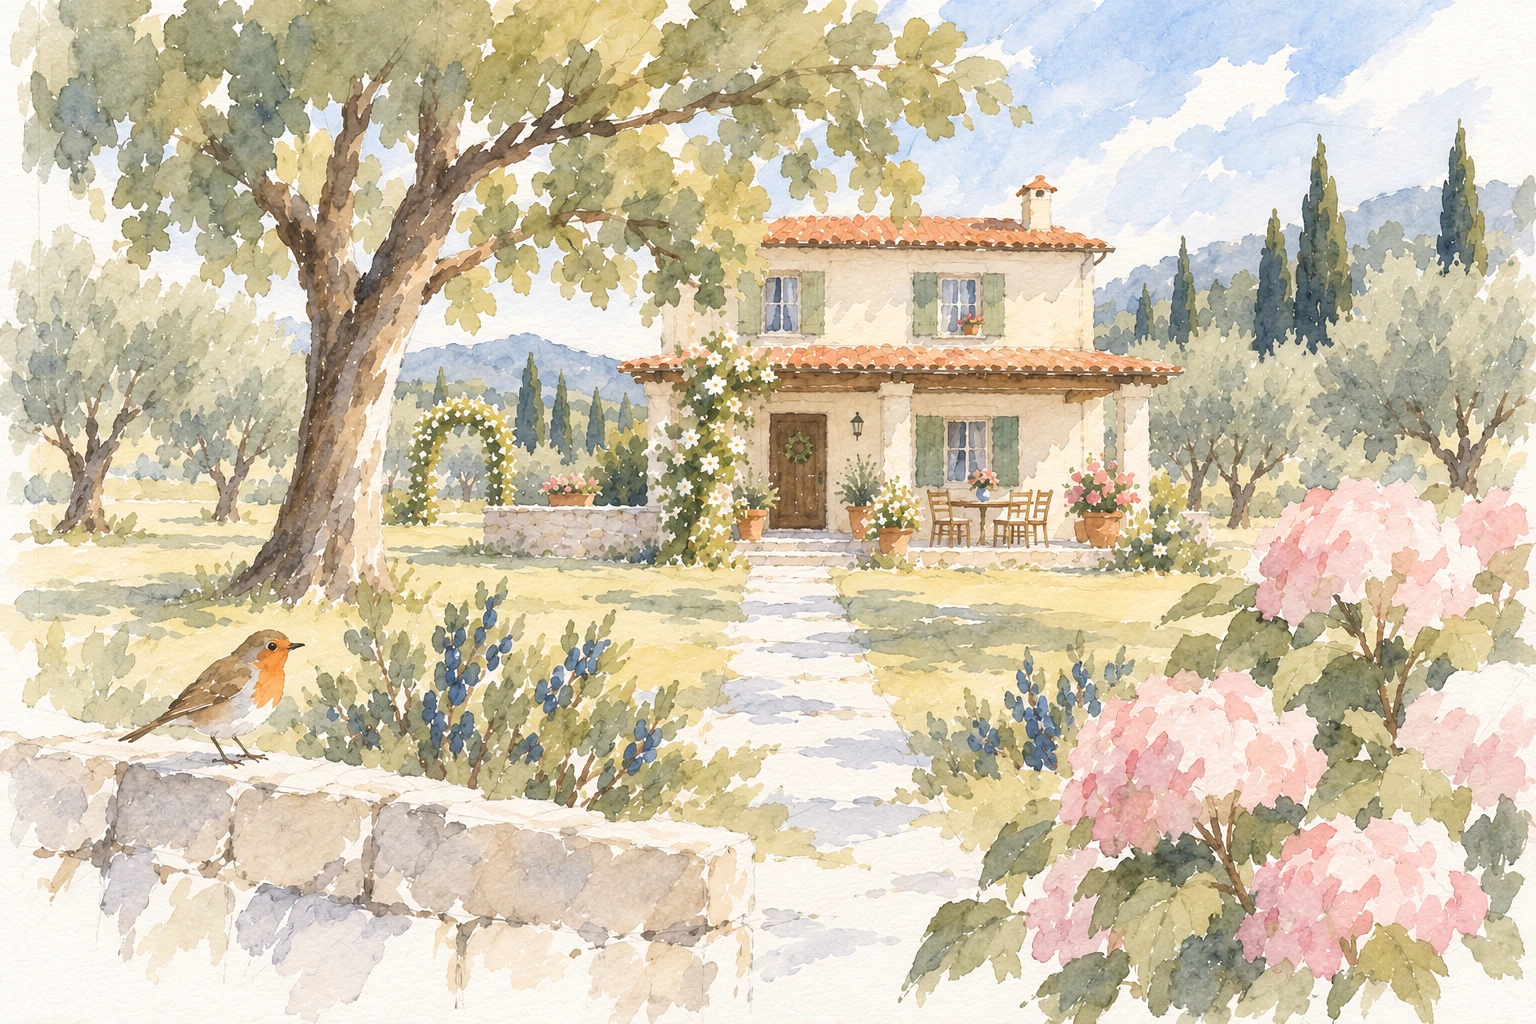
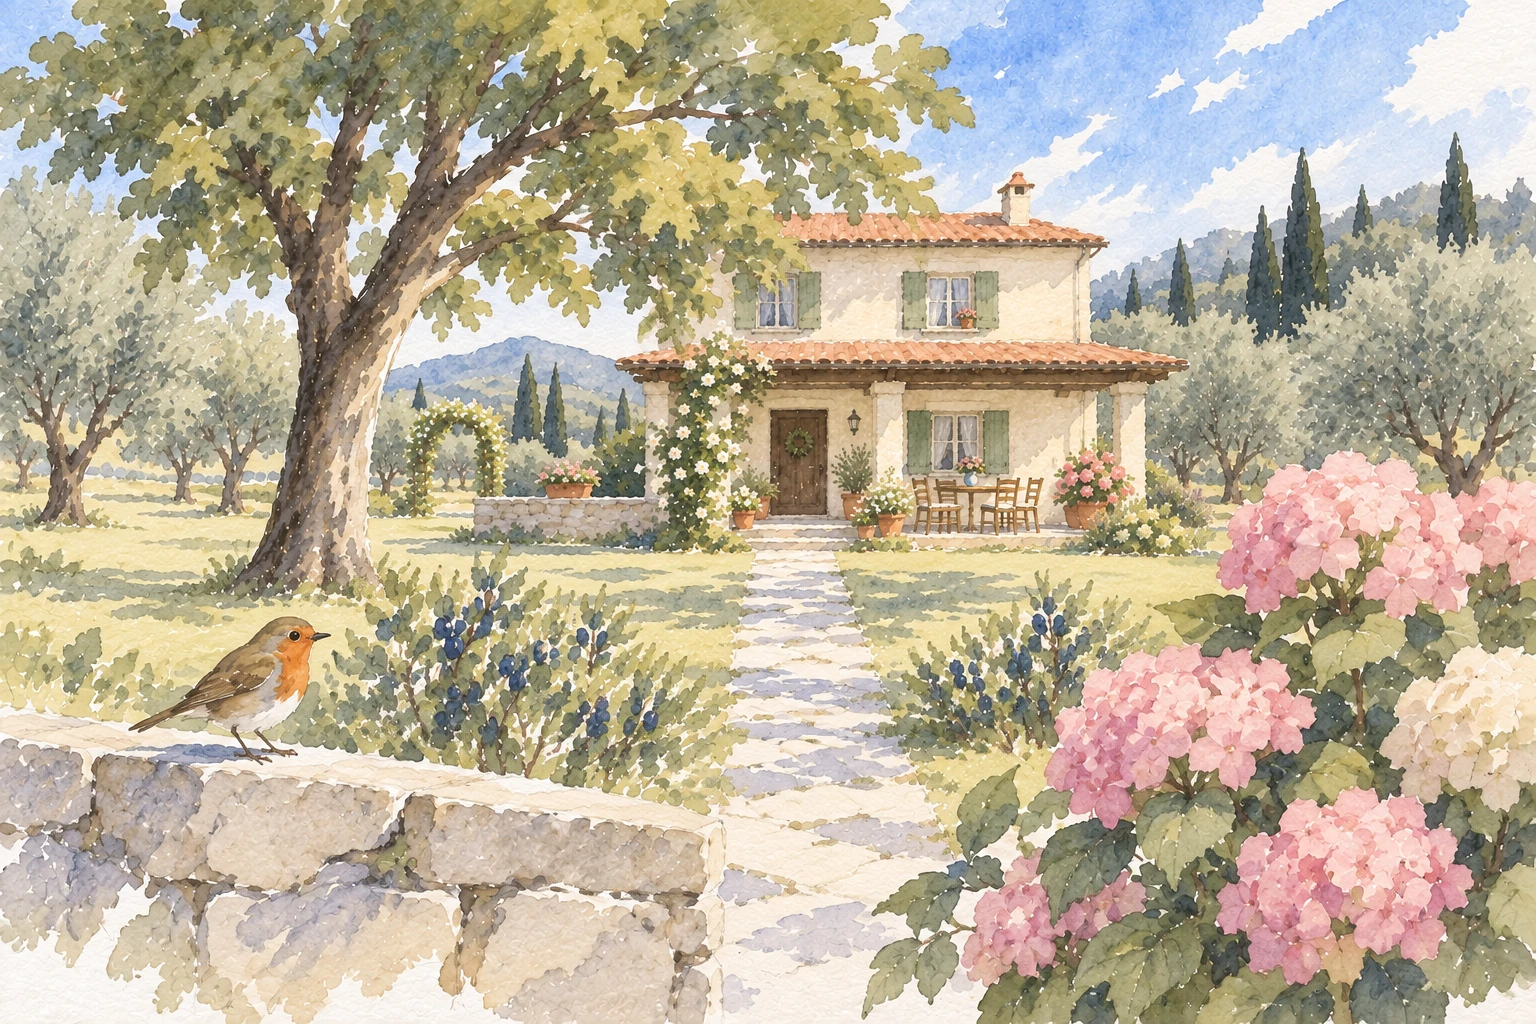
Restore the finished watercolor set with an intermediate upstairs painting

diff --git a/farm-house/index.html b/farm-house/index.html
@@ -161,7 +161,7 @@ permalink: /farm-house/
   (() => {
     'use strict';
     const $ = id => document.getElementById(id);
-    // The published upstairs watercolor is the style anchor for every scene.
+    // The finished watercolor set, with an intermediate finish for the upstairs room.
     const sceneAssets = { exterior:'assets/exterior-watercolor.webp', hall:'assets/hall-watercolor.webp', upstairs:'assets/upstairs-watercolor.webp', kitchen:'assets/kitchen-watercolor.webp', garden:'assets/garden-watercolor.webp', stableYard:'assets/stable-yard-watercolor.webp', stable:'assets/stable-watercolor.webp' };
     const state = { scene: 'intro', visitedUpstairs: false, bed: false, walnuts: false, letter: false, hints: false, detail: null };
     const scenes = {
@@ -245,7 +245,7 @@ permalink: /farm-house/
       veranda:{kicker:'Outside',title:'The veranda.',image:'exterior',position:'73% 60%',zoom:'280%',alt:'The veranda table and chairs beside flowering plants.',body:['The family uses the house in summer.','Their belongings are still here.'],actions:[['Look around','close']]},
       kettle:{kicker:'By the window',title:'The kettle.',image:'kitchen',position:'37% 40%',zoom:'440%',alt:'The metal kettle with its black handle, beside the window.',body:['The kettle stands beside a row of glasses.'],actions:[['Back to the kitchen','close']]},
       shoppingList:{kicker:'On the table',title:'The shopping list.',image:'kitchen',position:'92% 84%',mobilePosition:'92% 79%',zoom:'440%',alt:'A small folded shopping list on the wooden kitchen table.',body:['Beside “walnuts”, someone has written “for upstairs”.'],actions:[['Back to the kitchen','close']]},
-      robin:{kicker:'Erithacus rubecula',title:'A European robin.',image:'garden',position:'7% 76%',zoom:'500%',alt:'A European robin perched on the low stone wall, with an orange breast and brown back.',body:['Both males and females have an orange-red breast.','Robins often follow gardeners, picking up worms and grubs from newly turned soil.'],actions:[['Back to the garden','close']],source:{label:'RSPB bird guide',url:'https://www.rspb.org.uk/birds-and-wildlife/robin'}},
+      robin:{kicker:'Erithacus rubecula',title:'A European robin.',image:'garden',position:'7% 76%',zoom:'440%',alt:'A European robin perched on the low stone wall, with an orange breast and brown back.',body:['Both males and females have an orange-red breast.','Robins often follow gardeners, picking up worms and grubs from newly turned soil.'],actions:[['Back to the garden','close']],source:{label:'RSPB bird guide',url:'https://www.rspb.org.uk/birds-and-wildlife/robin'}},
       hydrangea:{kicker:'Hydrangea macrophylla',title:'A mophead hydrangea.',image:'garden',position:'100% 73%',zoom:'260%',alt:'Rounded pink hydrangea flower heads above broad green leaves.',body:['Mophead hydrangeas have rounded flower heads that last through much of the summer.','The large heads are clusters of small flowers.'],actions:[['Back to the garden','close']],source:{label:'RHS plant guide',url:'https://www.rhs.org.uk/plants/hydrangea/shrubby/growing-guide'}},
       window:{kicker:'Upstairs',title:'The farm.',image:'upstairs',position:'0% 10%',zoom:'280%',alt:'Part of the stable roof and a cultivated field beyond olive trees, seen through the upstairs window.',body:['She could see the stable and the field from her bed.','She kept up with the work on the farm.'],actions:[['Back to the room','close']]},
       bed:{kicker:'By the window',title:'Her bed.',image:'upstairs',position:'11% 56%',zoom:'220%',alt:'The grandmother’s neatly made bed by the window.',body:['This was the upstairs sitting room. Her bed stood here, beside the window.','She had been bedridden for as long as Doğu could remember. Everyone who visited came up to see her.'],actions:[['Back to the room','close']]},
